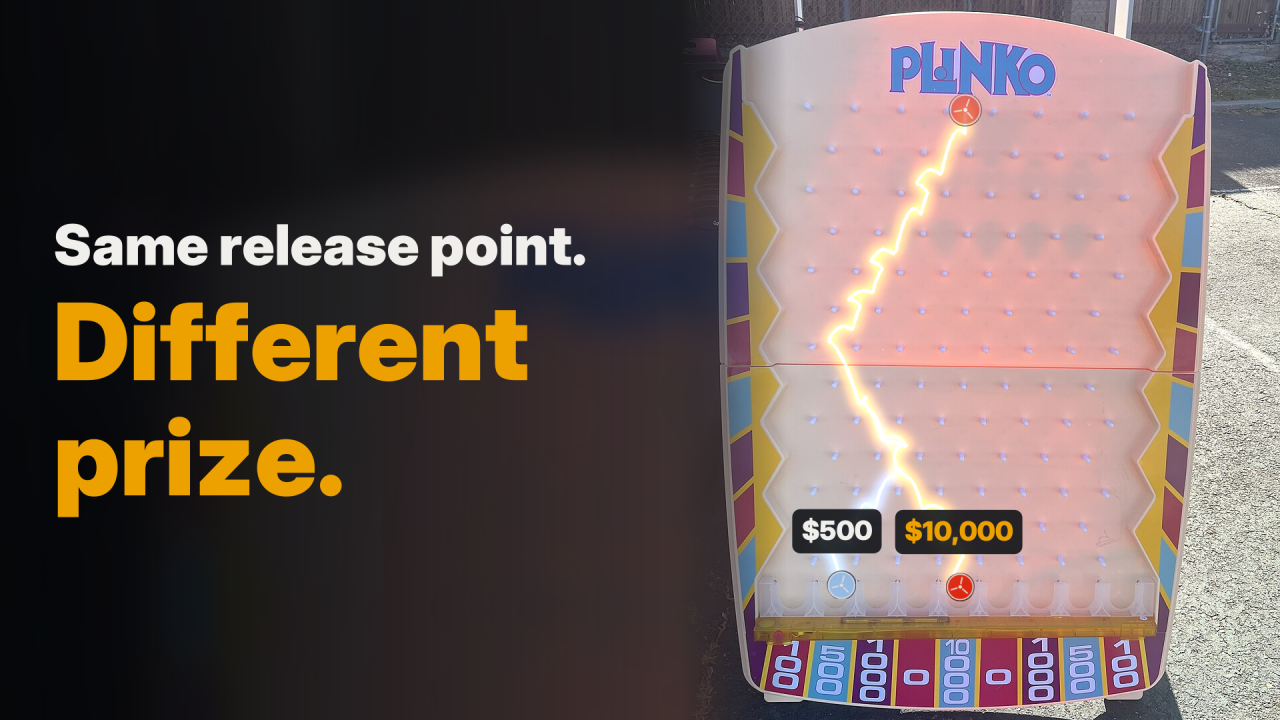
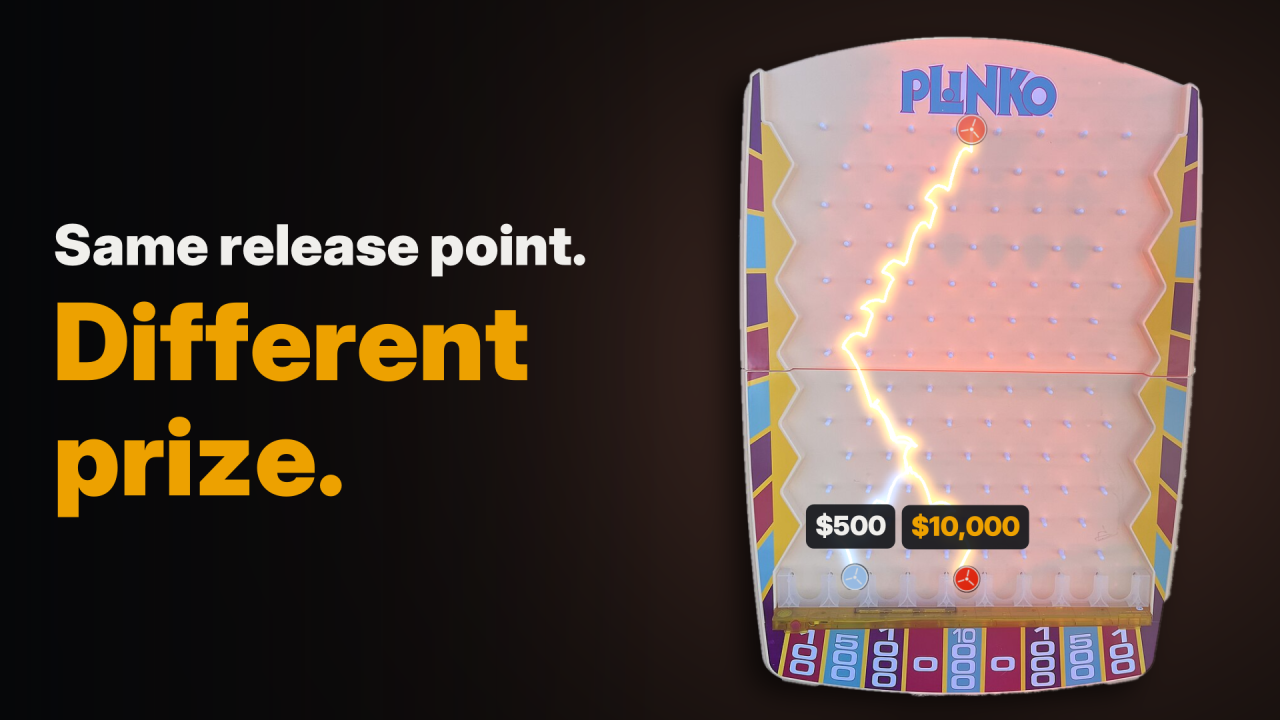
Thumbnails A3/B3/C3: the real board cut out of its background, chips and paths kept
The photo's board is decorated first (trails, chips, ring, labels on its own
pegs), then cut out with GrabCut and its base smoothed into one curve, and set
on the dark backdrop.

Claude-Session: https://claude.ai/code/session_01S7EUMzPhLyDgSQHoFb2Ud4

diff --git a/plinko/thumbs_chaos.py b/plinko/thumbs_chaos.py
@@ -11,8 +11,8 @@ Picture 1  the hook's last frame: a $10,000 drop and its atom-close replay in $5
            where the paths part
            (picture 3 with text C uses another pair from the same experiment, results/chaos2_warm_thumb.npz, that
            also lands in $0 but parts earlier and swings up to 54 cm apart, so the split is easy to see)
-        3  a photo of a real Plinko board (the official home game) with the film's two paths drawn on its own pegs
-           and our chips in the slots: "The Price Is Right Plinko Home Game" by TaurusEmerald, CC BY-SA 4.0
+        3  a photo of a real Plinko board (the official home game), cut out of its background (smooth curved
+           base), with the film's two paths drawn on its own pegs and our chips in the slots: "The Price Is Right Plinko Home Game" by TaurusEmerald, CC BY-SA 4.0
            (Wikimedia Commons; see
            ../videos/plinko/thumbnails/sources/ATTRIBUTION.md). The *3 thumbnails adapt it, so they are CC BY-SA 4.0
            too, and a description that uses one must carry the attribution.
@@ -129,32 +129,77 @@ def board_to_photo(im):
     return H
 
 
-def photo_frame(win, rep, ox=60, oy=105, split_t=None):
-    """The real photo (background and all), with the film's two paths drawn on its pegs: one release point, two
-    glowing trails, the chips in their slots and a faint chip where both were let go."""
+def board_alpha(im):
+    """The board alone: GrabCut from a box around it, the largest piece with its holes filled, smoothed, pulled in
+    1 px off the background fringe, its base replaced by one smooth curve (no feet), feathered. 0..1, photo size."""
+    mask = np.zeros(im.shape[:2], np.uint8)
+    bgd, fgd = np.zeros((1, 65), np.float64), np.zeros((1, 65), np.float64)
+    cv2.setRNGSeed(1)
+    cv2.grabCut(im, mask, (105, 105, 770, 1080), bgd, fgd, 8, cv2.GC_INIT_WITH_RECT)
+    fg = np.where((mask == cv2.GC_FGD) | (mask == cv2.GC_PR_FGD), 255, 0).astype(np.uint8)
+
+    def largest(m):
+        _, lab, st, _ = cv2.connectedComponentsWithStats(m)
+        return np.where(lab == 1 + int(np.argmax(st[1:, cv2.CC_STAT_AREA])), 255, 0).astype(np.uint8)
+    fg = largest(fg)
+    cnts, _ = cv2.findContours(fg, cv2.RETR_EXTERNAL, cv2.CHAIN_APPROX_NONE)
+    fg = cv2.drawContours(np.zeros_like(fg), cnts, -1, 255, -1)
+    k = cv2.getStructuringElement(cv2.MORPH_ELLIPSE, (11, 11))
+    fg = largest(cv2.morphologyEx(cv2.morphologyEx(fg, cv2.MORPH_OPEN, k), cv2.MORPH_CLOSE, k))
+    fg = cv2.erode(fg, cv2.getStructuringElement(cv2.MORPH_ELLIPSE, (3, 3)))
+    fg = smooth_bottom(im, fg)
+    return cv2.GaussianBlur(fg, (0, 0), 1.2).astype(np.float32) / 255.0
+
+
+def smooth_bottom(im, fg, rim=7, corner=41):
+    """Replace the base (feet and the uneven rim under the prize panel) with one smooth curve: fit a parabola to
+    the bottom of the coloured panel, cut everything more than `rim` px below it, then round the corners where
+    the curve meets the sides (an opening, applied to the bottom of the board only)."""
+    hsv = cv2.cvtColor(im, cv2.COLOR_BGR2HSV)
+    ys_, xs_ = np.nonzero(fg)
+    y_bot = ys_.max()
+    band = slice(y_bot - 200, y_bot + 1)
+    xs, ys = [], []
+    for x in range(fg.shape[1]):
+        col = np.nonzero((hsv[band, x, 1] > 90) & (fg[band, x] > 0))[0]
+        if len(col):
+            xs.append(x)
+            ys.append(band.start + col.max())
+    xs, ys = np.array(xs, float), np.array(ys, float)
+    lo, hi = np.percentile(xs, 12), np.percentile(xs, 88)               # the panel's straight run, not its ends
+    sel = (xs >= lo) & (xs <= hi)
+    for _ in range(3):                                                   # robust: drop columns far off the fit
+        c = np.polyfit(xs[sel], ys[sel], 2)
+        r = ys - np.polyval(c, xs)
+        sel &= np.abs(r) < 6
+    curve = np.polyval(c, np.arange(fg.shape[1])) + rim
+    yy = np.arange(fg.shape[0])[:, None]
+    cut = np.where(yy <= curve[None, :], fg, 0).astype(np.uint8)
+    k = cv2.getStructuringElement(cv2.MORPH_ELLIPSE, (corner, corner))
+    opened = cv2.morphologyEx(cut, cv2.MORPH_OPEN, k)
+    low = yy >= y_bot - 160
+    return np.where(low, opened, cut).astype(np.uint8)
+
+
+def photo_frame(win, rep, split_t=None, H_board=1000):
+    """The real board from the photo, cut out of its background, with the film's two paths drawn on its own pegs:
+    one release point, two glowing trails, the chips in their slots and a faint chip where both were let go; set
+    on the film's dark backdrop with a warm light behind it and a soft shadow."""
     OW, OH = CC.OW, CC.OH
     im = cv2.imread(SRC)
-    H = board_to_photo(im)
-    crop = im[oy:oy + OH, ox:].astype(np.float32) / 255.0
-    x0 = OW - crop.shape[1]
-    # backdrop: the same photo, blurred and dark, behind the text
-    cover = cv2.resize(im, (OW, int(im.shape[0] * OW / im.shape[1])))[:OH].astype(np.float32) / 255.0
-    img = cv2.GaussianBlur(cover, (0, 0), 30) * 0.28
-    ramp = np.clip((np.arange(OW) - x0) / 160.0, 0, 1)[None, :, None]
-    img[:, x0:] = crop * ramp[:, x0:] + img[:, x0:] * (1 - ramp[:, x0:])
-    to_canvas = lambda q: q - np.array([ox, oy]) + np.array([x0, 0])
+    Hm = board_to_photo(im)
+    ph = im.astype(np.float32) / 255.0
 
-    def proj(xy):
-        return to_canvas(cv2.perspectiveTransform(np.float32(xy)[None], H)[0])
-    # trails: a soft glow and a bright core, added to the photo
-    glow = np.zeros((OH, OW, 3), np.float32)
-    core = np.zeros((OH, OW, 3), np.float32)
+    def proj(xy):                                                      # board metres -> photo pixels
+        return cv2.perspectiveTransform(np.float32(xy)[None], Hm)[0]
+    glow = np.zeros_like(ph)
+    core = np.zeros_like(ph)
     for rec, col in ((rep, D.S1), (win, D.GOLD)):
         pts = proj(rec[:, 1:3]).astype(np.int32)
         bgr = np.array(col[::-1], np.float32)
         cv2.polylines(glow, [pts], False, tuple(float(v) for v in bgr), 10, cv2.LINE_AA)
         cv2.polylines(core, [pts], False, tuple(float(v) * 0.4 + 0.6 for v in bgr), 3, cv2.LINE_AA)
-    img = np.clip(img + 0.9 * cv2.GaussianBlur(glow, (0, 0), 9) + 0.85 * core, 0, 1)
+    ph = np.clip(ph + 0.9 * cv2.GaussianBlur(glow, (0, 0), 9) + 0.85 * core, 0, 1)
 
     def paste(name, xy_board, ang, alpha=1.0):
         ch = cv2.imread(CHIPS[name], cv2.IMREAD_UNCHANGED)
@@ -168,13 +213,33 @@ def photo_frame(win, rep, ox=60, oy=105, split_t=None):
         ch = cv2.warpAffine(ch, M_, (int(d), int(d)), flags=cv2.INTER_LINEAR, borderValue=(0, 0, 0, 0))
         x, y = int(round(c[0] - d / 2)), int(round(c[1] - d / 2))
         a = ch[..., 3:4] / 255.0 * alpha
-        reg = img[y:y + ch.shape[0], x:x + ch.shape[1]]
-        img[y:y + ch.shape[0], x:x + ch.shape[1]] = ch[..., :3] / 255.0 * a + reg * (1 - a)
+        reg = ph[y:y + ch.shape[0], x:x + ch.shape[1]]
+        ph[y:y + ch.shape[0], x:x + ch.shape[1]] = ch[..., :3] / 255.0 * a + reg * (1 - a)
     paste("red", win[0, 1:3], win[0, 3], 0.55)                     # where both were let go
     paste("blue", rep[-1, 1:3], rep[-1, 3])
     paste("red", win[-1, 1:3], win[-1, 3])
-
-    pills = pill_layer(lambda x, y: proj([[x, y]])[0], win, rep, 40, split_t, dy=-50)
+    # cut the board out and set it on the backdrop
+    al = board_alpha(im)
+    ys, xs = np.nonzero(al > 0.5)
+    bx0, by0, bx1, by1 = xs.min() - 6, ys.min() - 6, xs.max() + 7, ys.max() + 7
+    s = H_board / (by1 - by0)
+    size = (int(round((bx1 - bx0) * s)), H_board)
+    rgb = cv2.resize(ph[by0:by1, bx0:bx1], size, interpolation=cv2.INTER_AREA)
+    a = cv2.resize(al[by0:by1, bx0:bx1], size, interpolation=cv2.INTER_AREA)[..., None]
+    w_ = size[0]
+    x0, y0 = OW - w_ - 110, (OH - H_board) // 2 + 10
+    yy, xx = np.mgrid[0:OH, 0:OW]
+    lightg = np.exp(-(((xx - (x0 + w_ / 2)) / 620.0) ** 2 + ((yy - OH / 2) / 520.0) ** 2))[..., None]
+    img = np.empty((OH, OW, 3), np.float32)
+    img[:] = (0.04, 0.045, 0.06)                                     # BGR, as cv2 and finish() use
+    img += lightg * np.array([0.10, 0.12, 0.20])                     # warm light behind the board
+    sh = np.zeros((OH, OW), np.float32)                              # soft shadow, down and to the left
+    sh[y0 + 18:y0 + 18 + H_board, x0 - 22:x0 - 22 + w_] = a[..., 0]
+    img *= 1 - 0.65 * cv2.GaussianBlur(sh, (0, 0), 22)[..., None]
+    reg = img[y0:y0 + H_board, x0:x0 + w_]
+    img[y0:y0 + H_board, x0:x0 + w_] = rgb * a + reg * (1 - a)
+    to_canvas = lambda q: (q - np.array([bx0, by0])) * s + np.array([x0, y0])
+    pills = pill_layer(lambda x, y: to_canvas(proj([[x, y]])[0]), win, rep, 40, split_t, dy=-50 * s)
     return img, pills, x0
 
 

diff --git a/videos/copy/plinko_chaos_YOUTUBE.md b/videos/copy/plinko_chaos_YOUTUBE.md
@@ -12,7 +12,7 @@ by simulated releases the chip can't physically make; see `plinko/ACCURACY.md` s
 In `plinko/thumbnails/`, 1280x720, built by `plinko/thumbs_chaos.py`: every pairing of three lines of text with
 three pictures, named `plinko_chaos_thumb_<text><picture>.png`. YouTube's thumbnail test takes up to three.
 
-| | 1: the opening drop and its replay ($10,000 and $500) | 2: the warm-board pair ($10,000 and $0) | 3: a photo of a real Plinko board, with the film's two paths and chips drawn on its pegs |
+| | 1: the opening drop and its replay ($10,000 and $500) | 2: the warm-board pair ($10,000 and $0) | 3: a photo of a real Plinko board, cut out of its background, with the film's two paths and chips drawn on its pegs |
 |---|---|---|---|
 | **A** "Same release point. Different prize." | `A1` | `A2` | `A3` |
 | **B** "Match release point to an atom, different result." | `B1` | `B2` | `B3` |

diff --git a/videos/plinko/thumbnails/sources/ATTRIBUTION.md b/videos/plinko/thumbnails/sources/ATTRIBUTION.md
@@ -5,7 +5,8 @@
 https://commons.wikimedia.org/wiki/File:The_Price_Is_Right_Plinko_Home_Game.jpg
 licensed CC BY-SA 4.0 (https://creativecommons.org/licenses/by-sa/4.0/).
 
-`plinko_chaos_thumb_A3.png`, `B3` and `C3` adapt it: cropped, with the film's two simulated paths drawn on the
+`plinko_chaos_thumb_A3.png`, `B3` and `C3` adapt it: the board cut out of its background (OpenCV GrabCut, its
+base smoothed into one curve), with the film's two simulated paths drawn on the
 board's pegs (mapped onto the photo by a homography fitted to 96 detected pegs), rendered chips added
 (`plinko/blender/render_thumb_chips.py`), prize labels and text beside it. They are therefore also licensed
 CC BY-SA 4.0. The PLINKO name and logo on the board are trademarks of their owners; their appearance does not
